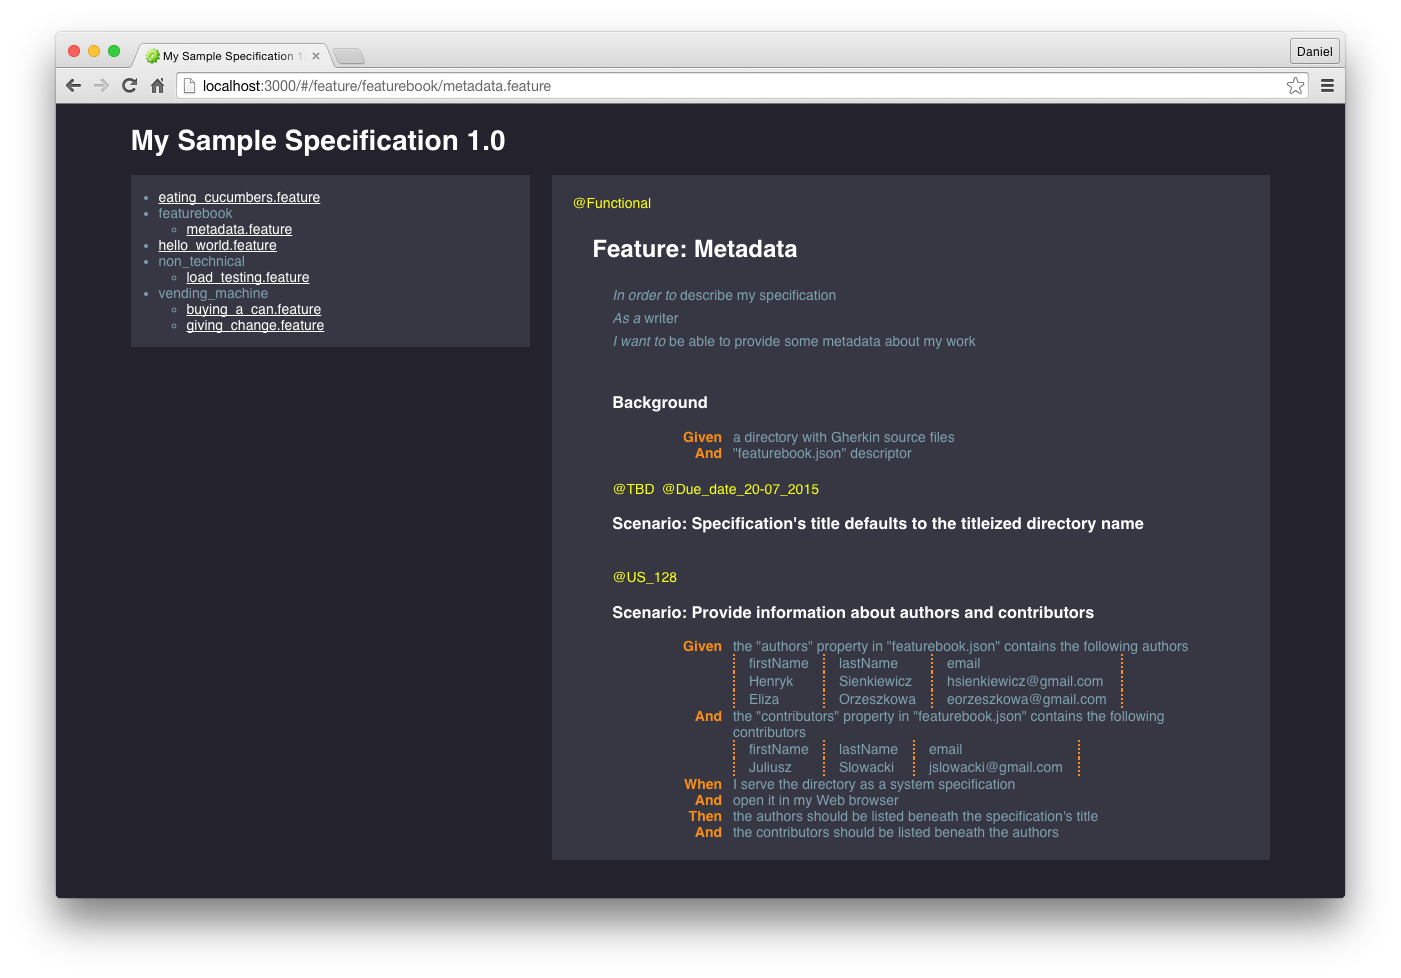
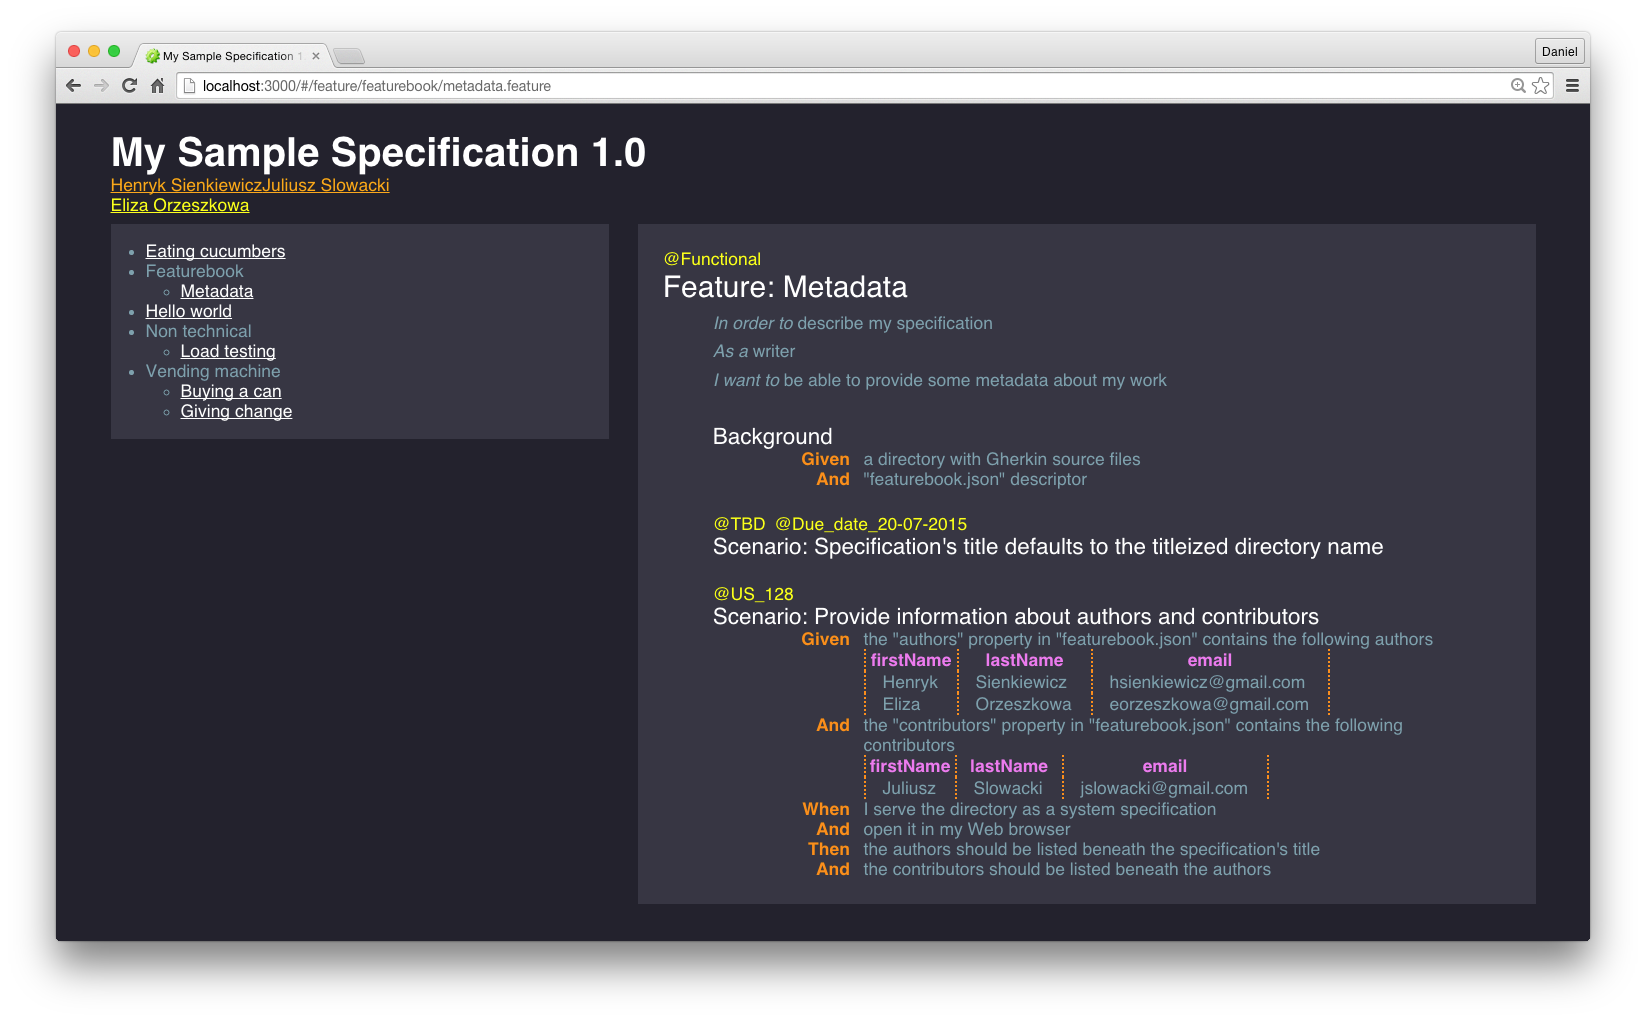
Polishing CSS

Changed region(s): [[0.0307, 0.0307, 0.9822, 0.9202], [0.399, 0.2454, 0.8594, 0.8589], [0.399, 0.184, 0.4604, 0.2147]]

diff --git a/public/views/feature.html b/public/views/feature.html
@@ -1,17 +1,17 @@
 <div class="featurebook-tag" ng-repeat="tag in feature.tags">{{tag}}</div>
-<h3 class="featurebook-feature-name">Feature: {{feature.name}}</h3>
+<div class="featurebook-feature-name">Feature: {{feature.name}}</div>
 
 <div class="featurebook-feature-description" ng-bind-html="feature.descriptionAsHtml"></div>
 
 <div class="featurebook-background" ng-show="{{feature.background}}">
-    <h3>Background</h3>
+    <div class="featurebook-background-name">Background</div>
 
     <step class="featurebook-step" ng-model="step" ng-repeat="step in feature.background.steps"></step>
 </div>
 
 <div class="featurebook-scenario" ng-repeat="scenario in feature.scenarios">
     <div class="featurebook-tag" ng-repeat="tag in scenario.tags">{{tag}}</div>
-    <h3>Scenario: {{scenario.name}}</h3>
+    <div class="featurebook-scenario-name">Scenario: {{scenario.name}}</div>
 
     <step class="featurebook-step" ng-model="step" ng-repeat="step in scenario.steps"></step>
 </div>

diff --git a/public/assets/css/featurebook.css b/public/assets/css/featurebook.css
@@ -86,8 +86,18 @@ table {
 }
 
 .featurebook-feature-name {
-    padding: 0 20px;
     font-size: x-large;
+    color: #ffffff;
+}
+
+.featurebook-background-name {
+    font-size: large;
+    color: #ffffff;
+}
+
+.featurebook-scenario-name {
+    font-size: large;
+    color: #ffffff;
 }
 
 .featurebook-background, .featurebook-scenario, .featurebook-scenario-outline {
@@ -106,6 +116,11 @@ table {
     border-right: 2px dotted darkorange;
     padding-left: 1em;
     padding-right: 1em;
+}
+
+.featurebook-examples th, .featurebook-step th {
+    border-right: 2px dotted darkorange;
+    color: violet;
 }
 
 .featurebook-step {

diff --git a/public/views/examples.html b/public/views/examples.html
@@ -1,5 +1,8 @@
 <table>
-    <tr ng-repeat="row in examples track by $index">
+    <tr ng-repeat="row in examples track by $index" ng-if="$index === 0">
+        <th ng-repeat="cell in row track by $index">{{cell}}</th>
+    </tr>
+    <tr ng-repeat="row in examples track by $index" ng-if="$index > 0">
         <td ng-repeat="cell in row track by $index">{{cell}}</td>
     </tr>
 </table>
